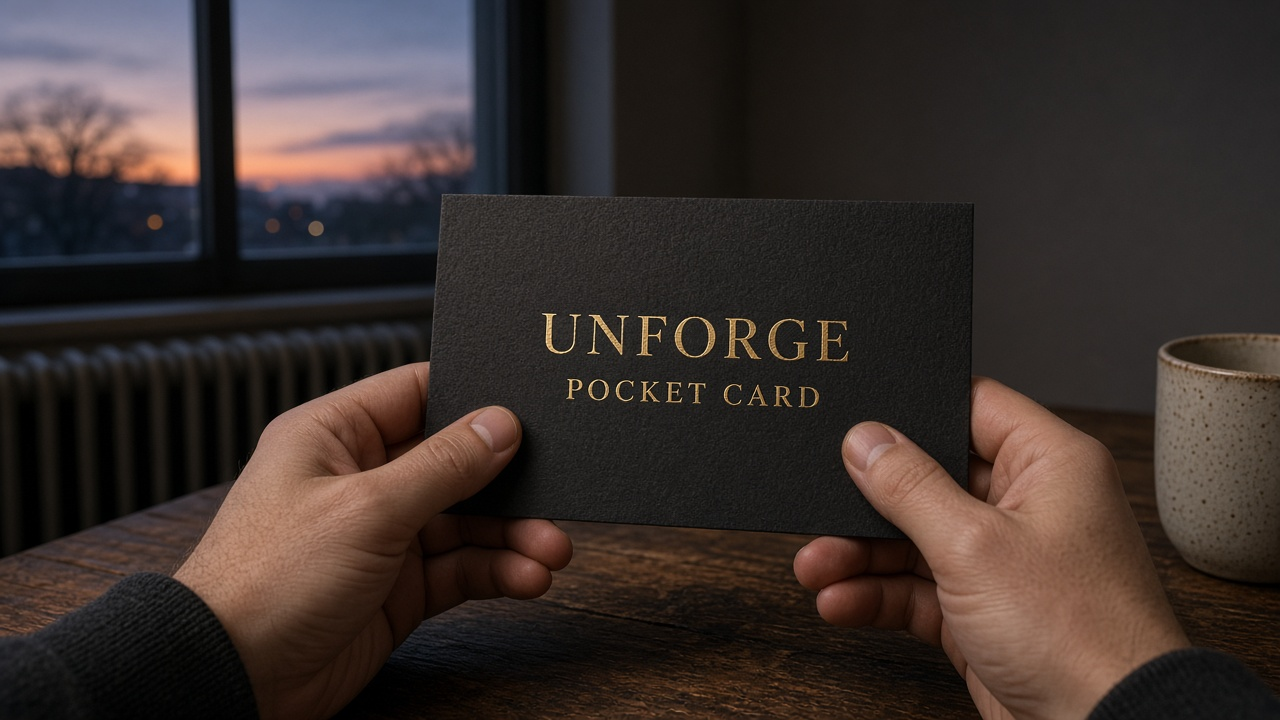
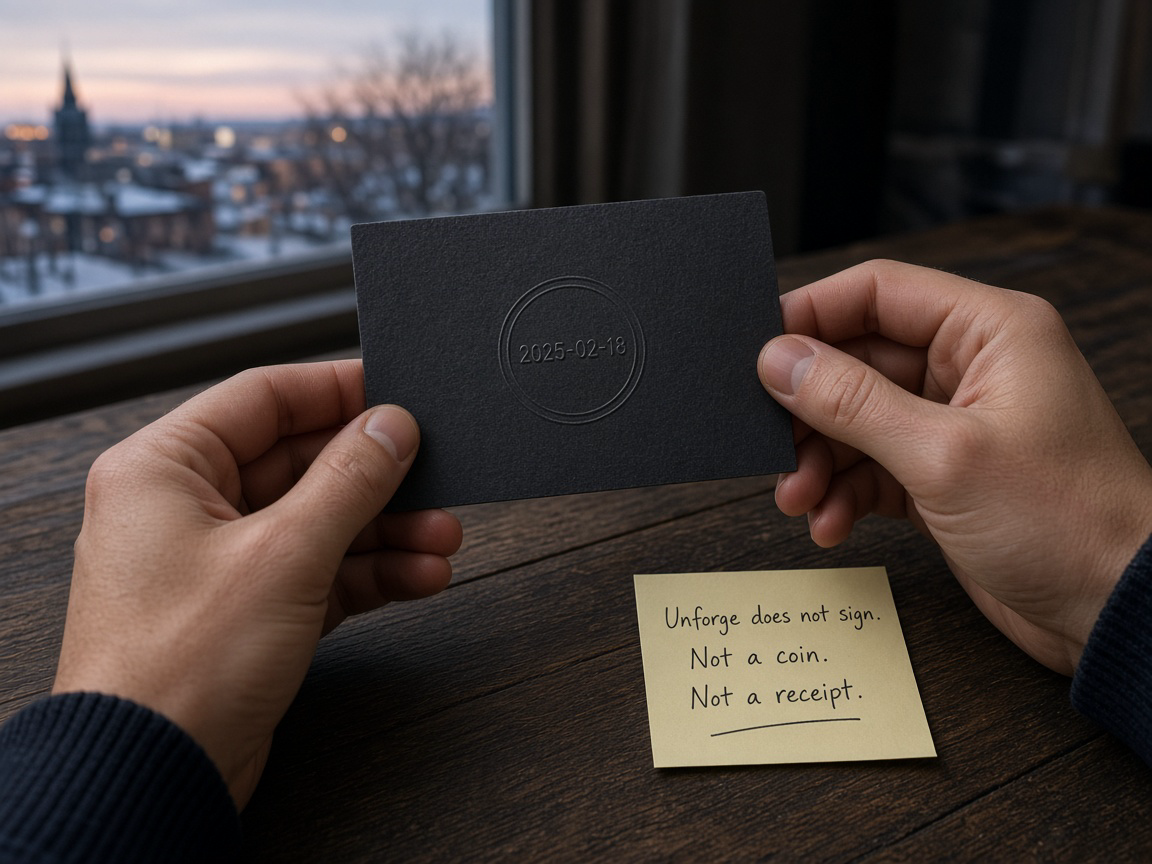
imagine: 2026-09-04 photo-hands PNG regen
Replace branded UNFORGE/POCKET CARD frame with date-only seal
and off-card sticky: Unforge does not sign. LOG: PNG regen landed.
Judgment = Carl.

diff --git a/site/imagine/2026-09-04/LOG.md b/site/imagine/2026-09-04/LOG.md
@@ -6,6 +6,6 @@ Judgment = Carl.
 |---|---|---|
 | fact | shipped | press#23 |
 | still | generated | still-card.png GO — Unforge does not sign |
-| photo | HOLD | fix in flight — photo.md rewrite; PNG regen pending Quantum |
+| photo | GO | PNG regen landed — date-only seal + off-card sticky Unforge does not sign |
 | film | GO + FLAG | Expert FLAG noted — date-on-seal ≠ signature; printer ≠ seal |
-| blocked | photo PNG + film render | still-card.png is not the photo |
+| blocked | film render only | still-card.png is not the photo |
